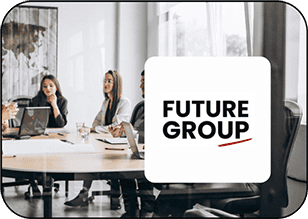
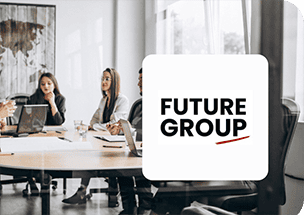
images update

diff --git a/style.css b/style.css
@@ -431,8 +431,6 @@ main {
     width: 3vw;
 }
 .pictureR, .pictureL {
-    border-radius: 4vw;
-    background-color: var(--white);
     width: 60vw;
     height: 25vw;
     margin-bottom: 4vw;
@@ -445,9 +443,10 @@ main {
 }
 picture img {
     border-radius: 3vw;
+    outline: 0.3vw solid var(--darkGray);
+    outline-offset: -0.2vw;
     width: 60vw;
     height: 25vw;
-    border: none;
     filter: none;
 }
 .contact {
@@ -583,6 +582,9 @@ picture img {
     .areaArrow.whiteText {
         font-size: 4vw;
     }
+    .areaArrow.purpleText {
+        font-size: 3.5vw;
+    }
     .areaTitle .heavier {
         font-size: 7.5vw;
         vertical-align: middle;
@@ -628,6 +630,9 @@ picture img {
         grid-area: Popup;
         display: grid;
         position: relative;
+    }
+    .areaName {
+        margin-top: 1vw;
     }
     #menuPopup {
         visibility: hidden;
@@ -853,7 +858,6 @@ picture img {
         margin-top: -8vw;
     }
     .pictureR, .pictureL {
-        border-radius: 7vw;
         width: 73vw;
         height: 45vw;
         margin-bottom: 4vw;
@@ -866,6 +870,8 @@ picture img {
     }
     picture img {
         border-radius: 6vw;
+        outline: 0.4vw solid var(--darkGray);
+        outline-offset: -0.3vw;
         width: 73vw;
         height: 45vw;
     }
